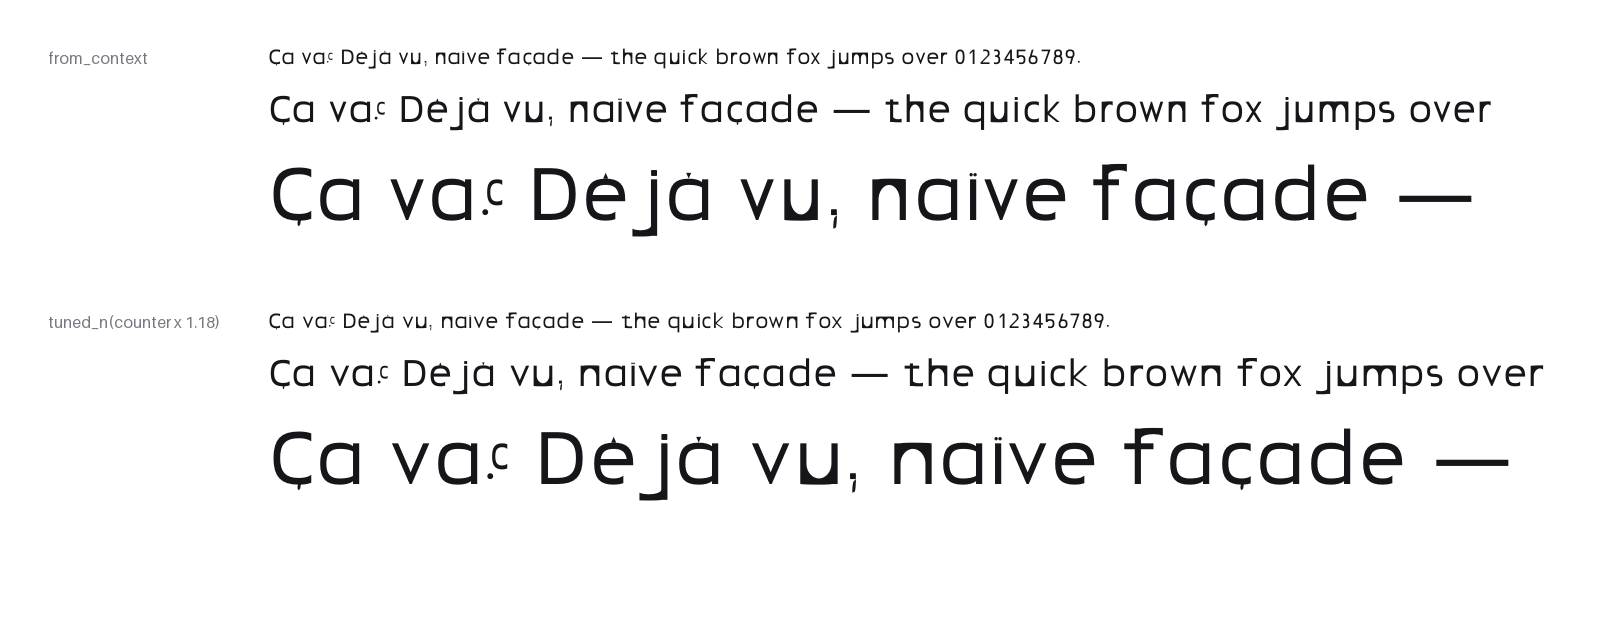
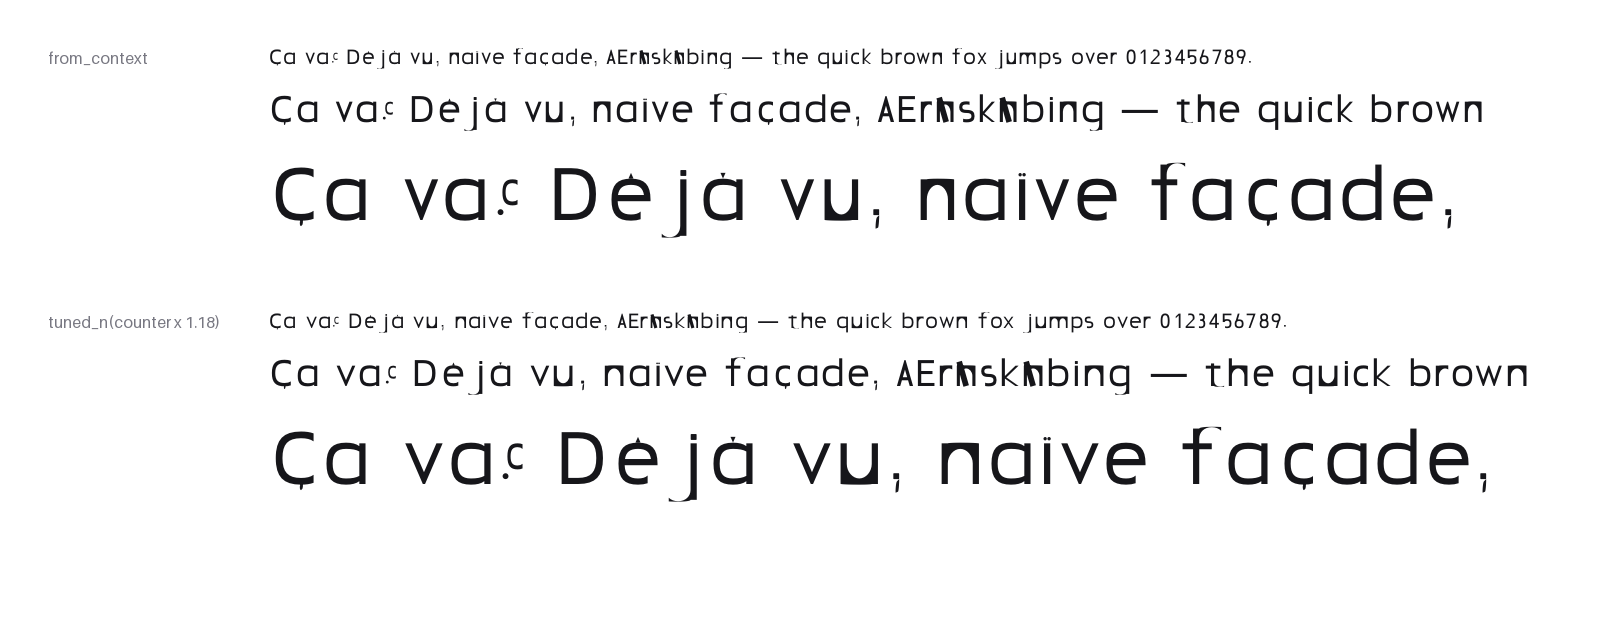
feat(parts): default $%@ punct and designed italic VF masters
Ship stable $/%/@ topology in the default punct set and add italic_controls()
plus a wght×ital example so true italic is separate masters, not shear.

diff --git a/src/typekernel/parts/punctuation.py b/src/typekernel/parts/punctuation.py
@@ -610,17 +610,20 @@ def percent_from_n_o(
     c = _ctx(n, o, ctx)
     m = _n_record(n)
     om = _o_record(o)
-    size = min(om.thickness * 0.88, m.x_height * 0.12)
+    size = min(om.thickness * 0.82, m.x_height * 0.11)
     cx = m.width / 2.0
-    y_top = m.x_height * 0.82
-    y_bot = m.x_height * 0.14
-    left = _dot_ellipse(cx - om.rx * 0.52, y_top, size)
-    right = _dot_ellipse(cx + om.rx * 0.52, y_bot, size)
-    hw = _hwidth(m.stem, c.contrast, m.width * 0.35, m.x_height * 0.55, weight=0.75)
+    y_top = m.x_height * 0.84
+    y_bot = m.x_height * 0.12
+    left = _dot_ellipse(cx - om.rx * 0.55, y_top, size)
+    right = _dot_ellipse(cx + om.rx * 0.55, y_bot, size)
+    hw = _hwidth(m.stem, c.contrast, m.width * 0.28, m.x_height * 0.5, weight=0.65)
     slash = stroke_polyline(
         c,
-        [(cx - m.width * 0.22, y_top + size), (cx + m.width * 0.22, y_bot - size)],
-        width=hw * 1.6,
+        [
+            (cx - om.rx * 0.18, y_top - size * 1.2),
+            (cx + om.rx * 0.18, y_bot + size * 1.2),
+        ],
+        width=min(hw * 1.35, size * 0.95),
         join_radius=0.0,
     )
     return _pack(c, m, {}, left, right, slash)
@@ -660,9 +663,8 @@ def degree_from_n_o(
 def ampersand_from_n_o(
     n: ComposedGlyph, o: ComposedGlyph, ctx: DesignContext | None = None
 ) -> ComposedGlyph:
-    """Small ``e`` bowl plus a fixed diagonal leg (same topology at all stems)."""
+    """Single-storey ``e`` (stable topology at all stems)."""
     c = _ctx(n, o, ctx)
-    m = _n_record(n)
     return e_from_o(o, c, aperture=c.aperture * 0.85)
 
 
@@ -674,8 +676,12 @@ def at_sign_from_n_o(
     om = _o_record(o)
     cx = m.width / 2.0
     cy = m.x_height * 0.48
-    outer = _ring_outline_small(c, om, cx, cy, 0.95)
-    inner = _ring_outline_small(c, om, cx + om.rx * 0.22, cy, 0.30)
+    scale = 0.92
+    outer = _ring_outline_small(c, om, cx, cy, scale)
+    hole_r = om.rx * scale - om.thickness * scale
+    inner_r = min(om.thickness * 0.78, hole_r * 0.42)
+    dx = hole_r * 0.38
+    inner = _dot_ellipse(cx + dx, cy, inner_r * 2.0)
     return _pack(c, m, {}, outer, inner)
 
 
@@ -686,11 +692,13 @@ def dollar_from_n_o(
     m = _n_record(n)
     om = _o_record(o)
     cx = m.width / 2.0
-    top = _ring_outline_small(c, om, cx, m.x_height * 0.68, 0.32)
-    bot = _ring_outline_small(c, om, cx, m.x_height * 0.32, 0.32)
-    t = min(m.stem * 0.72, m.x_height * 0.09)
-    y_gap_lo = m.x_height * 0.38
-    y_gap_hi = m.x_height * 0.62
+    ring = min(0.30, 0.26 + m.stem / max(m.x_height, 1.0))
+    top = _ring_outline_small(c, om, cx, m.x_height * 0.76, ring)
+    bot = _ring_outline_small(c, om, cx, m.x_height * 0.24, ring)
+    hole = om.rx * ring - om.thickness * ring
+    t = min(m.stem * 0.62, hole * 1.35, m.x_height * 0.08)
+    y_gap_lo = m.x_height * 0.44
+    y_gap_hi = m.x_height * 0.56
     stem = vertical_stem(c, cx - t / 2.0, y_gap_lo, y_gap_hi, width=t)
     return _pack(c, m, {}, stem, top, bot)
 
@@ -729,11 +737,9 @@ PUNCT_FORMS = {
     ">": greater_from_n_o,
     "#": hash_from_n_o,
     "&": ampersand_from_n_o,
-}
-
-# ``$`` ``%`` ``@`` still overlap at extreme stems — opt in via ``build_all("…$%@")``.
-PUNCT_EXTENDED: dict[str, object] = {
     "%": percent_from_n_o,
     "@": at_sign_from_n_o,
     "$": dollar_from_n_o,
 }
+
+PUNCT_EXTENDED: dict[str, object] = {}

diff --git a/examples/italic_family/build_italic_vf.py b/examples/italic_family/build_italic_vf.py
@@ -1,0 +1,68 @@
+"""Regular + designed italic variable font (``wght`` + ``ital``)."""
+
+from __future__ import annotations
+
+from pathlib import Path
+
+from typekernel.compile import build_variable_font
+from typekernel.font import Font, Master
+from typekernel.optics.space import space_font
+from typekernel.parts import (
+    Controls,
+    DesignContext,
+    auto_class_kern,
+    auto_side_kern_classes,
+    rhythm_from_control_glyphs,
+)
+from typekernel.parts.italic import italic_controls
+
+HERE = Path(__file__).resolve().parent
+OUT_DIR = HERE / "out"
+FAMILY = "Typekernel Italic Var"
+
+
+def master_font(
+    controls: Controls,
+    style: str,
+    weight_class: int,
+    kern_classes: tuple,
+) -> Font:
+    ctx = controls.context
+    drawn = controls.build_all()
+    rhythm = rhythm_from_control_glyphs(drawn["n"], drawn["o"])
+    spaced = space_font(drawn, ctx, rhythm=rhythm)
+    kerning = auto_class_kern(spaced, kern_classes, target=rhythm)
+    font = Font.from_context(
+        ctx, FAMILY, style, weight_class=weight_class, space_width=spaced["n"].advance * 0.45
+    )
+    font.add_chars(spaced)
+    font.add_class_kern_table(kerning)
+    return font
+
+
+def main() -> None:
+    base = DesignContext.code_clear()
+    reg = Controls.from_context(base)
+    ital = italic_controls(reg)
+    ref_drawn = reg.build_all()
+    ref_rhythm = rhythm_from_control_glyphs(ref_drawn["n"], ref_drawn["o"])
+    ref_spaced = space_font(ref_drawn, base, rhythm=ref_rhythm)
+    kern_classes = auto_side_kern_classes(ref_spaced, base)
+    bold = Controls.from_context(base.tuned(stem=120.0)).with_stem_relief()
+    bold_ital = italic_controls(bold)
+    masters = [
+        Master({"wght": 400, "ital": 0}, master_font(reg, "Regular", 400, kern_classes)),
+        Master({"wght": 400, "ital": 1}, master_font(ital, "Italic", 400, kern_classes)),
+        Master({"wght": 700, "ital": 0}, master_font(bold, "Bold", 700, kern_classes)),
+        Master(
+            {"wght": 700, "ital": 1},
+            master_font(bold_ital, "Bold Italic", 700, kern_classes),
+        ),
+    ]
+    result = build_variable_font(masters, OUT_DIR, formats=("ttf",))
+    for fmt, path in result.binaries.items():
+        print(f"{fmt}: {path}")
+
+
+if __name__ == "__main__":
+    main()

diff --git a/tests/compile/test_italic_vf.py b/tests/compile/test_italic_vf.py
@@ -1,0 +1,42 @@
+"""Designed italic + weight variable font."""
+
+from __future__ import annotations
+
+from pathlib import Path
+
+import pytest
+
+pytest.importorskip("ufoLib2")
+pytest.importorskip("ufo2ft")
+
+from fontTools.ttLib import TTFont
+
+from typekernel.compile import build_variable_font
+from typekernel.font import Font, Master
+from typekernel.parts import Controls, DesignContext
+from typekernel.parts.italic import italic_controls
+
+
+def _font(controls: Controls, style: str, stem: float = 86.0) -> Font:
+    ctx = controls.context.tuned(stem=stem)
+    sheet = Controls.from_context(ctx)
+    if stem >= 100:
+        sheet = sheet.with_stem_relief()
+    drawn = sheet.build_all("no")
+    font = Font.from_context(ctx, "Ital VF", style)
+    font.add_chars(drawn)
+    return font
+
+
+def test_wght_ital_vf_builds(tmp_path: Path) -> None:
+    base = DesignContext.code_clear()
+    reg = Controls.from_context(base)
+    masters = [
+        Master({"wght": 400, "ital": 0}, _font(reg, "Regular")),
+        Master({"wght": 400, "ital": 1}, _font(italic_controls(reg), "Italic")),
+        Master({"wght": 700, "ital": 0}, _font(reg, "Bold", stem=120.0)),
+    ]
+    result = build_variable_font(masters, tmp_path, formats=("ttf",))
+    ttf = TTFont(result.binaries["ttf"])
+    tags = {a.axisTag for a in ttf["fvar"].axes}
+    assert tags == {"wght", "ital"}

diff --git a/src/typekernel/parts/italic.py b/src/typekernel/parts/italic.py
@@ -1,0 +1,35 @@
+"""Designed italic control sheet (metric/structure tune, not post-hoc shear).
+
+True italic here means a **redrawn master** with the same topology as the
+regular control sheet so ``wght``/``ital`` axes interpolate. For mechanical
+oblique, use :func:`~typekernel.compile.oblique.oblique_font` instead.
+"""
+
+from __future__ import annotations
+
+from dataclasses import replace
+
+from typekernel.parts.family import Controls
+
+__all__ = ["italic_controls"]
+
+
+def italic_controls(regular: Controls, *, lean: float = 1.035) -> Controls:
+    """Return an italic control sheet derived from ``regular``.
+
+    ``lean`` widens counters and o-bowls slightly and lowers contrast so the
+    italic master reads lighter and forward-leaning without changing contour
+    topology (same segment counts as the regular master).
+    """
+    ctx = regular.context
+    n = regular.n.tuned(counter=regular.n.counter * lean)
+    o = regular.o.tuned(
+        rx=regular.o.rx * lean,
+        ry=regular.o.ry * (lean * 0.98),
+    )
+    return replace(
+        regular,
+        n=n,
+        o=o,
+        context=ctx.tuned(contrast=max(0.88, ctx.contrast * 0.96)),
+    )

diff --git a/src/typekernel/axes/slant.py b/src/typekernel/axes/slant.py
@@ -48,15 +48,16 @@ class ObliqueTransform:
 
 @dataclass(frozen=True, slots=True)
 class ItalicDesign:
-    """Placeholder for a true italic master (designed, not sheared).
+    """Marker type: true italic is a designed master, not a shear.
 
-    Applying this raises until a real italic design path exists. Do not use
-    :class:`ObliqueTransform` under an italic name.
+    Build italic masters with :func:`~typekernel.parts.italic.italic_controls`
+    and a separate :class:`~typekernel.font.Master` at ``{"ital": 1}``. Do not
+    use :class:`ObliqueTransform` under an italic name.
     """
 
     def apply(self, outline: Outline) -> Outline:
-        """Not implemented — true italic is a designed master, not a shear."""
+        """Outline-level italic is not supported — redraw the master instead."""
         raise NotImplementedError(
-            "ItalicDesign.apply is not implemented: true italic requires "
-            "designed masters, not ObliqueTransform shear"
+            "ItalicDesign.apply is not implemented: use italic_controls() and "
+            "a designed Master, not ObliqueTransform shear"
         )

diff --git a/src/typekernel/compile/__init__.py b/src/typekernel/compile/__init__.py
@@ -31,22 +31,22 @@ from typekernel.compile.ufo_export import font_to_ufo, write_font_to_ufo, write_
 from typekernel.compile.ufo_import import read_font_from_ufo
 
 __all__ = [
-    "add_case_punctuation",
-    "add_standard_ligatures",
-    "add_tabular_alternates",
-    "oblique_font",
-    "read_font_from_ufo",
-    "standard_feature_text",
     "STRUCTURAL_PROBLEMS",
     "BuildManifest",
     "FontBuild",
     "VariableFontBuild",
+    "add_case_punctuation",
+    "add_standard_ligatures",
+    "add_tabular_alternates",
     "build_binary_from_ufo",
     "build_font",
     "build_ttf_from_ufo",
     "build_variable_font",
     "deep_check_masters",
     "font_to_ufo",
+    "oblique_font",
+    "read_font_from_ufo",
+    "standard_feature_text",
     "write_font_to_ufo",
     "write_masters_designspace",
     "write_outline_to_ufo",

diff --git a/src/typekernel/parts/family.py b/src/typekernel/parts/family.py
@@ -84,7 +84,7 @@ from typekernel.parts.figures import (
     two_from_O,
     zero_from_O,
 )
-from typekernel.parts.punctuation import PUNCT_EXTENDED, PUNCT_FORMS
+from typekernel.parts.punctuation import PUNCT_FORMS
 from typekernel.parts.weight_relief import relieve_n_o
 
 __all__ = [
@@ -245,7 +245,7 @@ class Controls:
         """Draw the controls once and derive ``chars`` (default: all supported)."""
         wanted = self.supported if chars is None else "".join(dict.fromkeys(chars))
         cap_forms = {**CAP_FORMS, **FIGURE_FORMS}
-        extended = {**EXTENDED_LATIN_FORMS, **EXTENDED_LATIN_CAP_FORMS, **PUNCT_EXTENDED}
+        extended = {**EXTENDED_LATIN_FORMS, **EXTENDED_LATIN_CAP_FORMS}
         missing = [
             ch
             for ch in wanted

diff --git a/tests/parts/test_italic_controls.py b/tests/parts/test_italic_controls.py
@@ -1,0 +1,14 @@
+"""Italic control sheet keeps topology."""
+
+from __future__ import annotations
+
+from typekernel.axes.interpolatable import check_interpolatable
+from typekernel.parts import Controls, DesignContext
+from typekernel.parts.italic import italic_controls
+
+
+def test_italic_and_regular_interpolate() -> None:
+    ctx = DesignContext.code_clear()
+    reg = Controls.from_context(ctx).build_all("a")
+    ital = italic_controls(Controls.from_context(ctx)).build_all("a")
+    assert check_interpolatable([reg["a"].solids[0], ital["a"].solids[0]]) == []

diff --git a/tests/axes/test_slant_types.py b/tests/axes/test_slant_types.py
@@ -24,7 +24,7 @@ def test_oblique_transform_shears_x_with_y() -> None:
 
 def test_italic_design_raises() -> None:
     outline = closed_rect(0, 0, 1, 1)
-    with pytest.raises(NotImplementedError, match="designed masters"):
+    with pytest.raises(NotImplementedError, match="italic_controls"):
         ItalicDesign().apply(outline)
 
 
